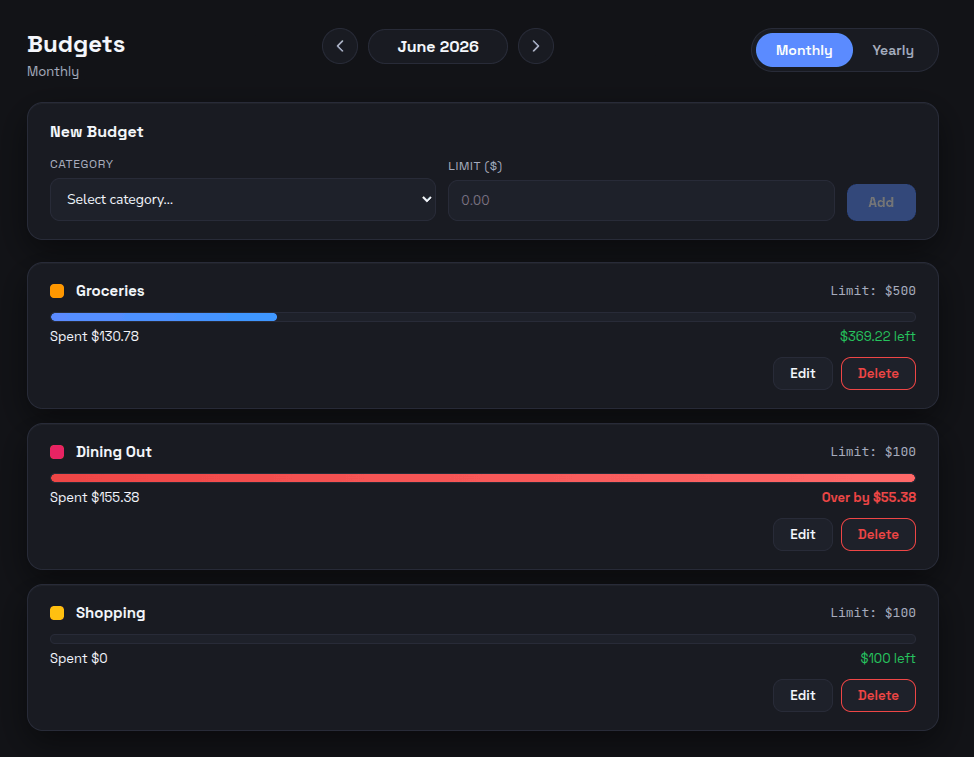
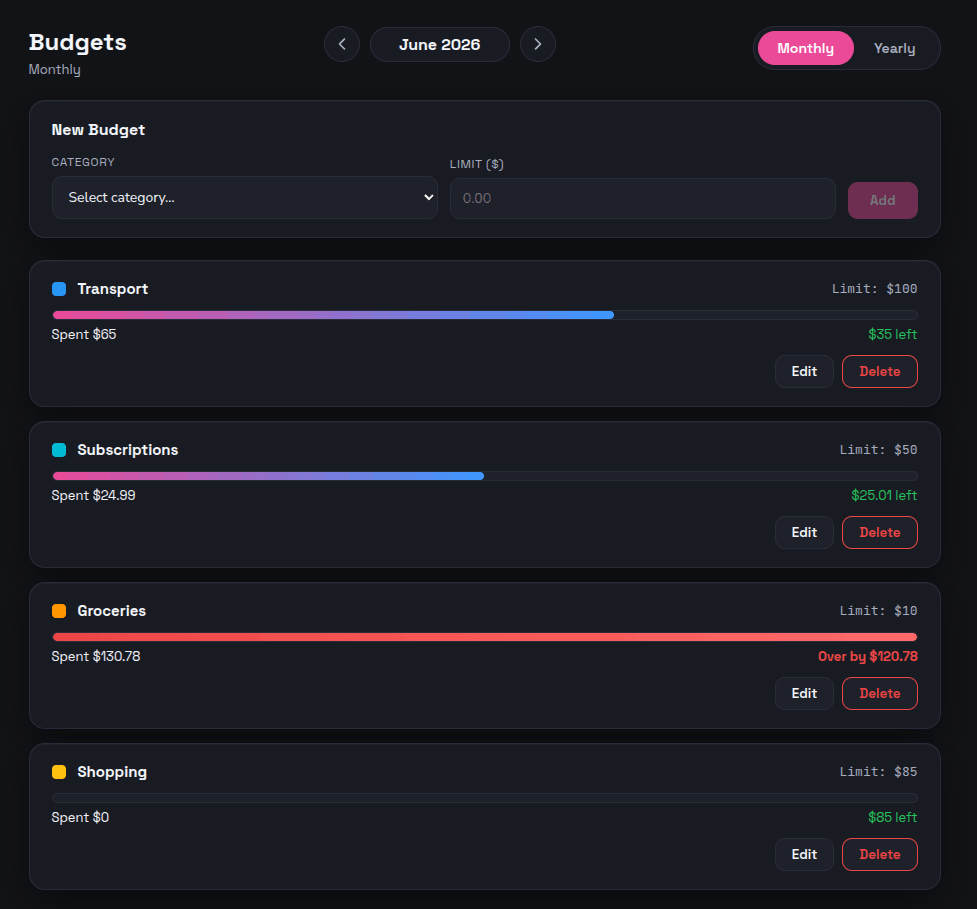
landing ui fix

diff --git a/src/styles/Landing.scss b/src/styles/Landing.scss
@@ -1,10 +1,6 @@
 @use "./variables" as vars;
 
 .landing {
-  --positive: vars.$positive;
-  --negative: vars.$negative;
-  --accent: vars.$accent;
-
   min-height: 100vh;
   background: vars.$bg-app;
   color: vars.$text-primary;
@@ -120,25 +116,17 @@
   }
 
   &.btn-primary {
-    background: linear-gradient(
-      135deg,
-      vars.$accent 0%,
-      vars.$secondary-color 100%
-    );
+    background: vars.$accent;
     color: #fff;
-    border-color: color-mix(in srgb, vars.$accent 60%, #ffffff 0%);
+    border-color: vars.$accent;
     box-shadow:
       0 8px 22px color-mix(in srgb, vars.$accent 38%, transparent),
       0 1px 0 rgba(255, 255, 255, 0.18) inset,
       0 -2px 0 color-mix(in srgb, #000 18%, transparent) inset;
 
     :root[data-theme="light"] & {
-      background: linear-gradient(
-        135deg,
-        vars.$accent 0%,
-        vars.$secondary-color 100%
-      );
-      border-color: color-mix(in srgb, vars.$accent 50%, #ffffff 30%);
+      background: vars.$accent;
+      border-color: vars.$accent;
       box-shadow:
         0 8px 22px color-mix(in srgb, vars.$accent 35%, transparent),
         0 1px 0 rgba(255, 255, 255, 0.5) inset,
@@ -146,6 +134,9 @@
     }
 
     &:hover {
+      background: color-mix(in srgb, vars.$accent 88%, #ffffff 12%);
+      border-color: color-mix(in srgb, vars.$accent 88%, #ffffff 12%);
+      color: #fff;
       transform: translateY(-2px);
       box-shadow:
         0 14px 32px color-mix(in srgb, vars.$accent 50%, transparent),
@@ -156,6 +147,8 @@
 
     &:active {
       transform: translateY(0) scale(0.98);
+      background: color-mix(in srgb, vars.$accent 92%, #000000 8%);
+      border-color: color-mix(in srgb, vars.$accent 92%, #000000 8%);
       filter: brightness(0.97) saturate(1);
       box-shadow:
         0 4px 12px color-mix(in srgb, vars.$accent 30%, transparent),
@@ -179,7 +172,6 @@
     }
 
     &:hover {
-      background: color-mix(in srgb, vars.$accent 14%, vars.$bg-card);
       border-color: vars.$accent;
       color: vars.$accent;
       transform: translateY(-1px);
@@ -188,6 +180,8 @@
 
     &:active {
       transform: translateY(0) scale(0.98);
+      background: color-mix(in srgb, vars.$accent 92%, #000000 8%);
+      border-color: color-mix(in srgb, vars.$accent 92%, #000000 8%);
     }
   }
 
@@ -203,8 +197,12 @@
   gap: 48px;
   align-items: center;
   padding: 80px 32px 96px;
-  max-width: 1380px;
+  max-width: 1400px;
   margin: 0 auto;
+
+  .hero-copy {
+    margin-right: 50px;
+  }
 
   .eyebrow {
     display: inline-block;
@@ -231,7 +229,7 @@
       background: linear-gradient(120deg, vars.$accent, vars.$secondary-color);
       -webkit-background-clip: text;
       background-clip: text;
-      -webkit-text-fill-color: transparent;
+      color: vars.$accent;
     }
   }
 

diff --git a/src/views/Auth/Login.tsx b/src/views/Auth/Login.tsx
@@ -83,6 +83,17 @@ function Login({
   return (
     <main className="auth-main">
       <ToastContainer />
+      <header className="landing-nav">
+        <Link to="/" className="landing-brand">
+          <img src="/favicon.svg" alt="" className="brand-mark" />
+          <span className="brand-name">Calendar Money</span>
+        </Link>
+        <div className="landing-nav-cta">
+          <Link to="/register" className="btn btn-primary">
+            Register
+          </Link>
+        </div>
+      </header>
       <div className="container">
         <fieldset id="log_up" className="fieldset">
           <legend className="legend">Nice to see you again! 👋</legend>

diff --git a/src/views/Auth/Register.tsx b/src/views/Auth/Register.tsx
@@ -90,6 +90,17 @@ function Register() {
   return (
     <main className="auth-main">
       <ToastContainer />
+      <header className="landing-nav">
+        <Link to="/" className="landing-brand">
+          <img src="/favicon.svg" alt="" className="brand-mark" />
+          <span className="brand-name">Calendar Money</span>
+        </Link>
+        <div className="landing-nav-cta">
+          <Link to="/login" className="btn btn-primary">
+            Log in
+          </Link>
+        </div>
+      </header>
       <div className="container">
         <fieldset id="sign_up" className="fieldset">
           <legend className="legend">Register Your Account 📝</legend>

diff --git a/src/styles/auth.scss b/src/styles/auth.scss
@@ -2,21 +2,25 @@
 @use "./buttons" as *;
 
 .auth-main {
+  height: 100vh;
   min-height: 100vh;
   display: flex;
   flex-direction: column;
+  overflow: hidden;
   background: vars.$bg-app;
 }
 
 .container {
   flex: 1;
+  min-height: 0;
   display: flex;
   flex-direction: column;
   align-items: center;
   justify-content: center;
   background: vars.$bg-app;
   font-family: "Nunito Sans", sans-serif;
-  padding: 40px 20px;
+  padding: 24px 20px;
+  overflow-y: auto;
 
   .fieldset {
     width: 100%;

diff --git a/README.md b/README.md
@@ -10,7 +10,13 @@
 
 <table>
   <tr>
-    <td colspan="2" align="center"><em>Dashboard (month view)</em></td>
+    <td colspan="2" align="center"><em>Landing</em></td>
+  </tr>
+  <tr>
+    <td colspan="2" align="center"><img src="./public/assets/docs/landing.png" alt="Dashboard month view" /></td>
+  </tr>
+  <tr>
+    <td colspan="2" align="center"><em>Dashboard</em></td>
   </tr>
   <tr>
     <td colspan="2" align="center"><img src="./public/assets/docs/dashboard.png" alt="Dashboard month view" /></td>